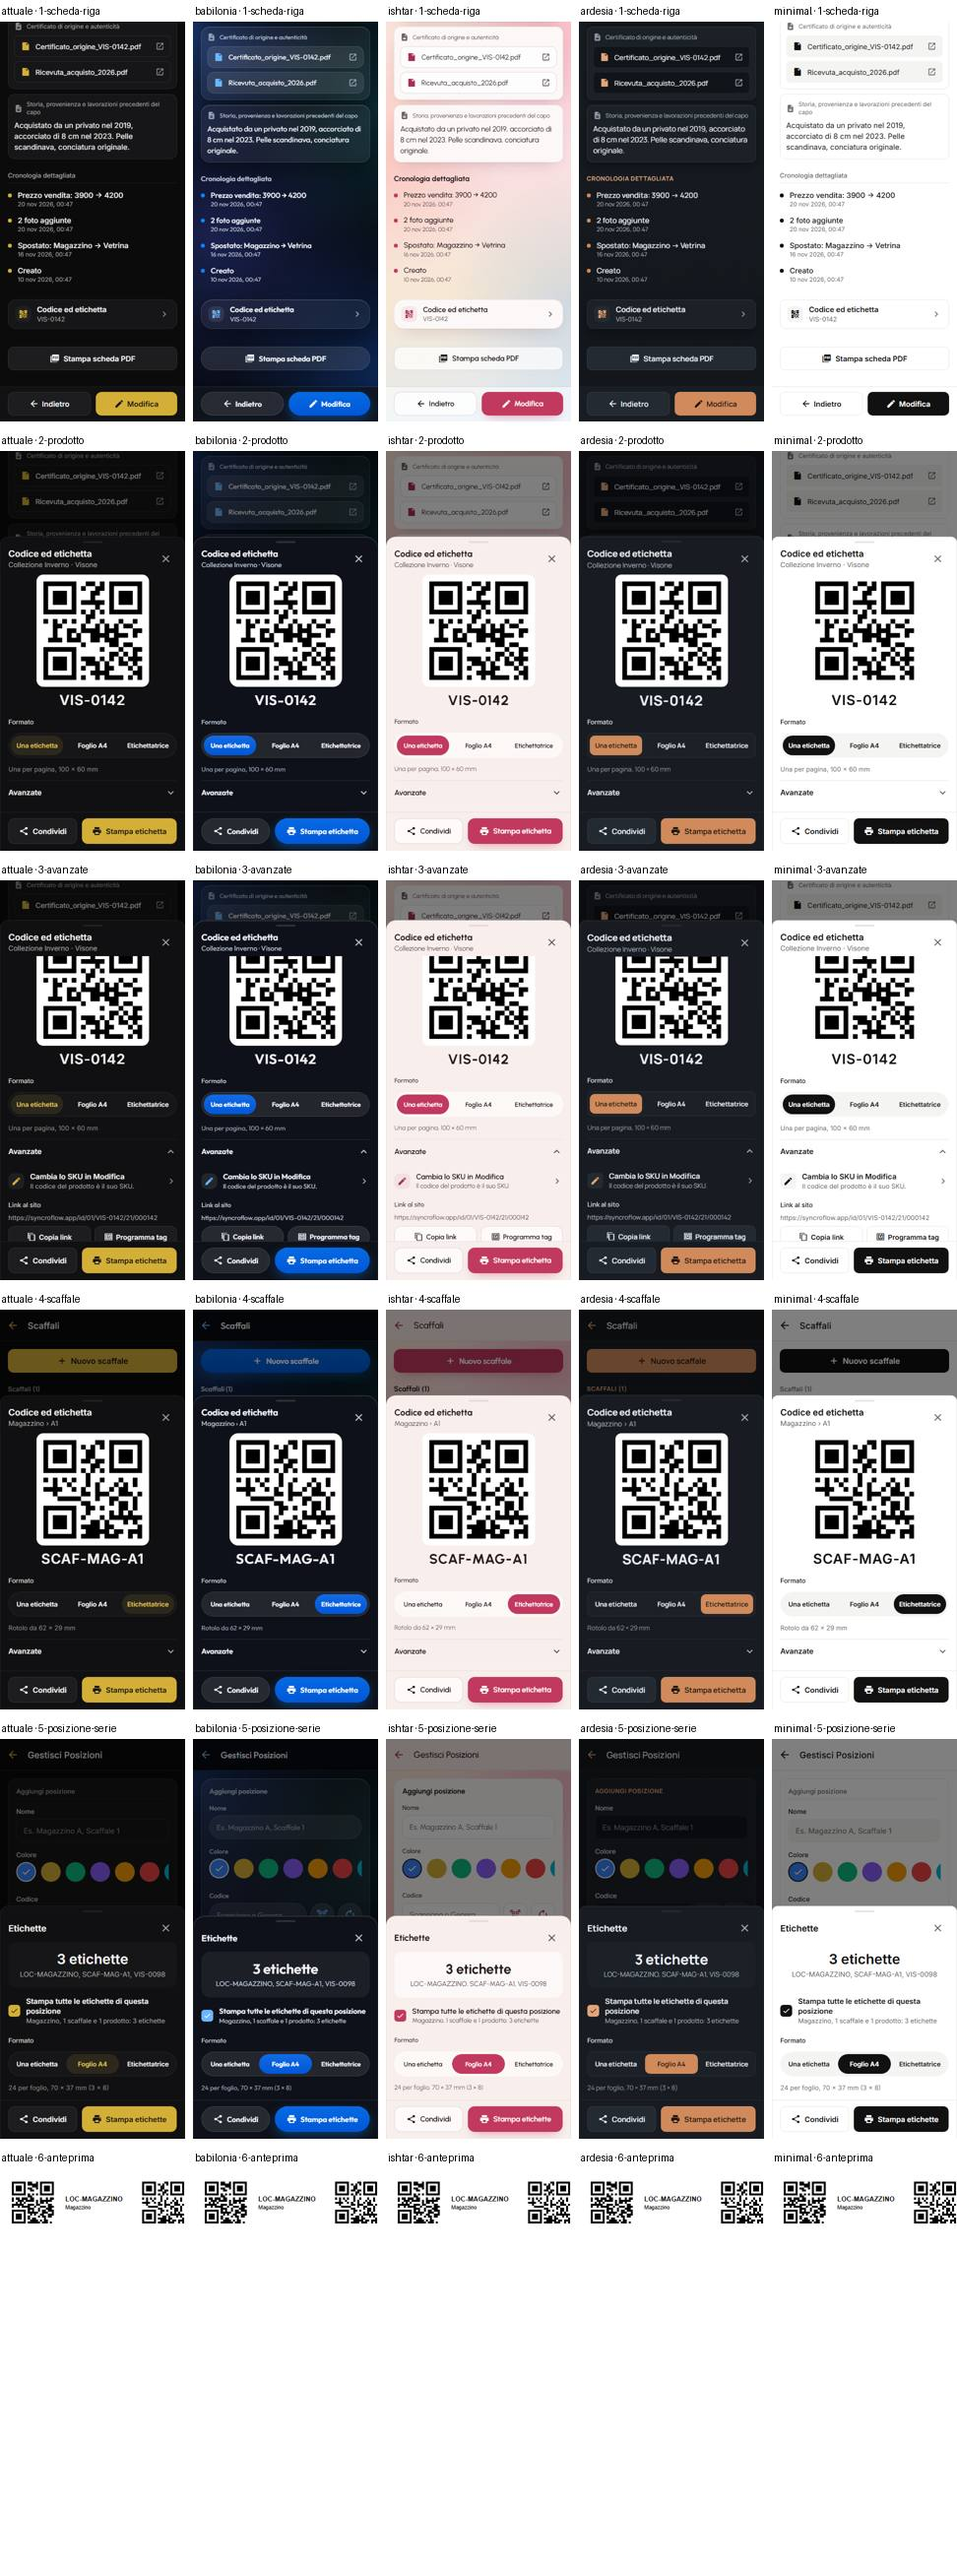
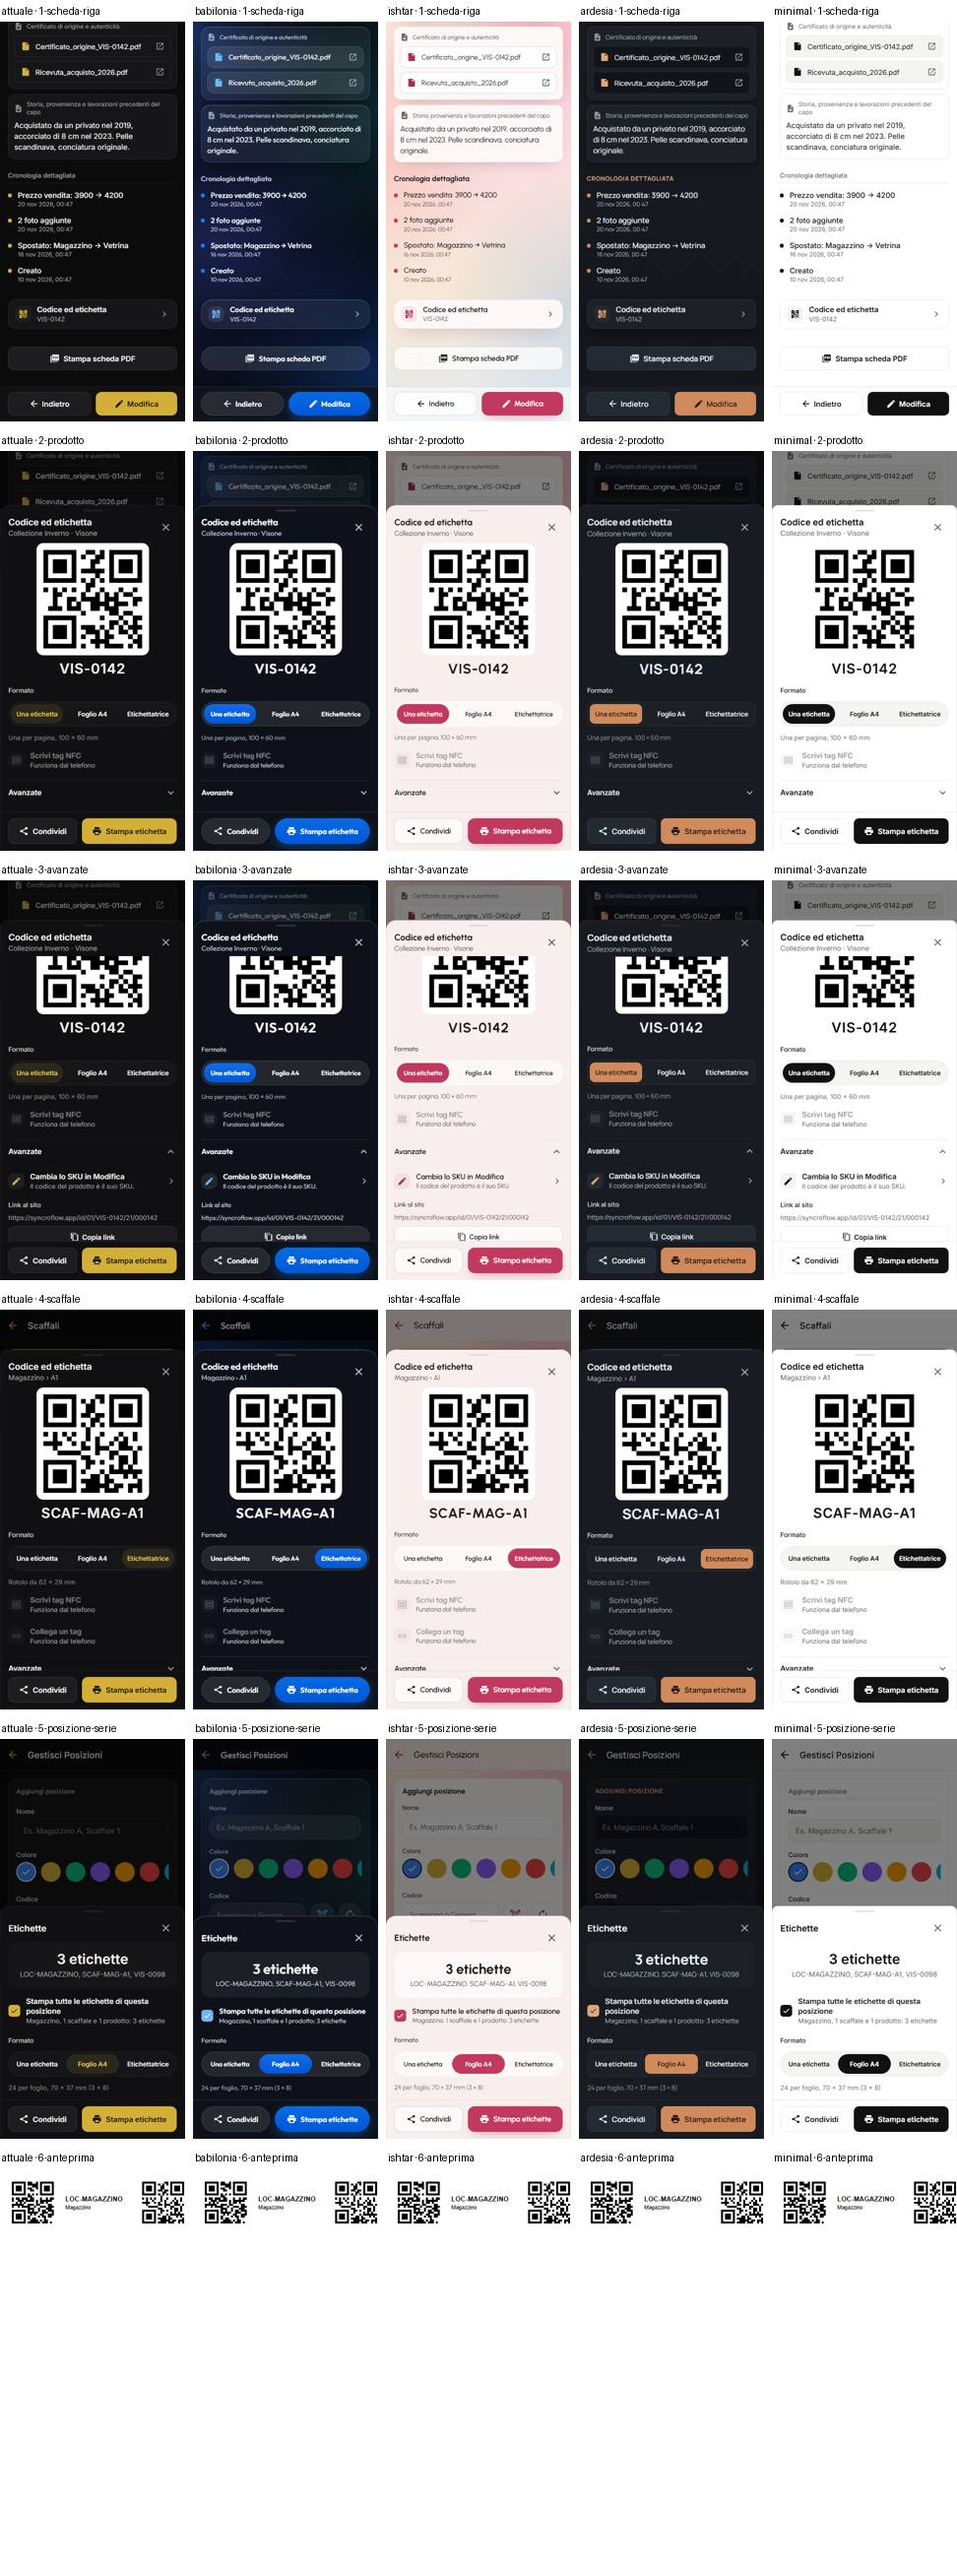
docs(magazzino): Unione 2, righe NFC spente sul web nei testi di N1 e nel foglio di ETI
CF-E6 di collaudo-finale e il punto «Da N1» di PASSAGGIO dicevano ancora la riga
sola «L'NFC si usa dal telefono» in «Codice ed etichetta»; foglio stili-eti
rifatto con le righe spente.

diff --git a/piani di implementazione/funzionalita/PASSAGGIO.md b/piani di implementazione/funzionalita/PASSAGGIO.md
@@ -103,7 +103,7 @@ Da ACC1:
 - **Da UX1-0**, nelle prove: **in Aggiungi Posizione e Categoria sono binari a tutta riga** (`[aria-label="Scelte di Posizione"]`, `"Categorie"`, `"Sottocategorie"`, larghi 375 a 375 px perché arrivano al bordo dello schermo), nessuna tendina; le pillole si toccano subito per testo o etichetta (`apriTendinaCon` le trova a vista e non apre nulla). Posizione torna tendina in colonna solo con «Menu a tendina» scelto in Campi (`edc-aspetto-base`). Le finestre dal basso (ruota in colonna, «Elenco dal basso», categoria dello scaffale) sono `Sheet`: X `[aria-label="Chiudi"]`, velatura `Chiudi la finestra` (categoria: `Chiudi la scelta della categoria`), Esc, e **sul web Indietro del browser chiude la finestra** invece di lasciare la schermata (una voce in più nella storia finché è aperta; chiusa, la storia è quella di prima). «Fatto» e «Conferma Selezione» sono nella barra in basso della finestra. Nel binario lo spazio tra le pillole può essere da 4 a 16 (deciso all'apertura) e le pillole della Categoria sono alte 36 su una riga. Minimal: bordo di campi e pillole `rgb(231, 230, 227)`.
 - **Da CAT1**, nelle prove delle Categorie: in cima c'è solo «Nome categoria (es: Giacche)» con «Crea Categoria»; icona, codice («Scansiona o Genera...») e nome si cambiano nella finestra che si apre toccando la riga (`[tabindex="0"]` con «ID: x»), con «Salva Modifiche»; il nome lì è `getByLabel('Nome della categoria')`, le icone `Icona Magazzino`… La finestra copre l'elenco: per toccare un'altra riga prima «Annulla». Le pillole di «Dove sta» e «Sposta in …» hanno `role=radio` e `aria-checked`. L'albero: `Apri X` / `Chiudi X` (aperta di partenza solo se ha sottocategorie), `Aggiungi una sottocategoria a X`, `Nome della sottocategoria di X`, `Aggiungi la sottocategoria a X`. Il cestino della riga resta `[aria-label="Elimina X"]` (ultimo premibile della riga); con dei prodotti apre «X ha N prodotti. Dove li sposto?» (`Sposta in …`, «Sposta ed elimina», «Annulla») invece della finestra del browser.
 - **Da ETI**, nelle prove: dopo «Crea Posizione», «Crea Categoria» e «Crea scaffale» l'avviso di prima resta e al suo «OK» si apre «Codice ed etichetta», che copre l'elenco: `chiudiCodice` di `prova/eti-util.cjs` (etichetta «Chiudi Codice ed etichetta»; anche il tocco sulla velatura in alto la chiude). Il codice di una categoria non sta più nella sua finestra: riga «Codice ed etichetta» › «Avanzate» › campo «Scansiona o Genera...» (etichetta «Nuovo codice», lettore accanto, «Genera il codice», «Salva codice»: `cambiaCodice`). La riga della Scheda e della finestra della categoria si tocca con `getByLabel('Codice ed etichetta')`, quella di Posizioni con `Codice ed etichetta di X`, di Categorie con `Codice di X`, di Scaffali con `Codice QR di X`. Sul web «Stampa etichetta» e «Stampa scheda PDF» aprono una pagina nuova del contesto (`context.on('page')`): la sua `print` si finge con `context.addInitScript`, quella della pagina dell'app deve restare a 0. Aprendo Posizioni, Categorie o Scaffali lo Scanner web di `expo-camera` scarica `jsQR` da jsdelivr: le richieste esterne della stampa si contano dal tocco su «Stampa».
-- **Da N1**, nelle prove: sul web l'NFC non c'è (`utils/nfcService.web.ts`): nessun «Leggi un tag», «Scrivi tag NFC», «Collega un tag», nessuna scelta in Scanner e NFC; in «Codice ed etichetta» di una cosa sola e in Scanner e NFC c'è la riga «L'NFC si usa dal telefono» (in «Codice ed etichetta» con le etichette in serie no). La configurazione `furinventory_hardware_config:{org}` salvata con `nfc_only` sul web non toglie la fotocamera (`readerSources`). Il modulo Scaffali non ha più il campo «Tag NFC»: un `nfcTag` di prova si scrive nello stato (`prepara` di `cod-util.cjs` lo mette ad A1) e il lettore lo legge a mano come prima. «Programma tag» non c'è più. La logica NFC si prova con jest (`nfcTag.test.ts`, `nfcCore.test.ts`); sul telefono restano i passi CF-T2 e CF-T3.
+- **Da N1**, nelle prove: sul web l'NFC non c'è (`utils/nfcService.web.ts`): nessun «Leggi un tag», nessun pulsante «Scrivi tag NFC» o «Collega un tag», nessuna scelta in Scanner e NFC; in Scanner e NFC c'è la riga «L'NFC si usa dal telefono»; in «Codice ed etichetta» di una cosa sola, dall'Unione 2, le due righe spente con «Funziona dal telefono» (vedi «Unione 2» qui sotto; con le etichette in serie niente). La configurazione `furinventory_hardware_config:{org}` salvata con `nfc_only` sul web non toglie la fotocamera (`readerSources`). Il modulo Scaffali non ha più il campo «Tag NFC»: un `nfcTag` di prova si scrive nello stato (`prepara` di `cod-util.cjs` lo mette ad A1) e il lettore lo legge a mano come prima. «Programma tag» non c'è più. La logica NFC si prova con jest (`nfcTag.test.ts`, `nfcCore.test.ts`); sul telefono restano i passi CF-T2 e CF-T3.
 - **Da ACC1**, nelle prove:
   - il profilo del telefono sta in `device:v1:profile` e la tabella in `device:v1:permissions`, fuori dallo spazio (niente `:local`). Nascono alla prima modifica in Accesso o al primo evento, mai all'apertura;
   - con il campionario il telefono è Titolare e nulla è spento. Per provare un altro ruolo: Accesso › radio «Ruolo Operatore» (`getByRole('radio', { name: 'Ruolo Operatore' })`);

diff --git a/piani di implementazione/funzionalita/collaudo-finale.md b/piani di implementazione/funzionalita/collaudo-finale.md
@@ -63,7 +63,7 @@ Dall'Unione 2 (25/11): CF-D è tutto verde. CF-D1 non ha più «da fare» (la fi
 | CF-E3 | Le 5 automazioni con lo stesso codice di prodotto | Riconosciuto in tutte; un prodotto nel cestino rifiutato col messaggio | COD, ESE |
 | CF-E4 | «Codice ed etichetta» di un prodotto con link e di A1: Stampa | Etichetta con QR e codice fatti in locale (nessun indirizzo esterno nell'HTML); sul web si apre la finestra dell'etichetta | ETI (fatta, 24/11: `cfE4` in `prova/collaudo.cjs`, verde) |
 | CF-E5 | Impostazioni › Codici ed etichette con lo storage vuoto, poi con una configurazione GS1 vecchia | Modo «Il codice del prodotto», Avanzate chiuse; con la configurazione vecchia modo «Link» con lo stesso dominio | GS1 |
-| CF-E6 | Impostazioni › Scanner e NFC sul web | Nessuna scelta NFC, una riga «L'NFC si usa dal telefono» (anche in «Codice ed etichetta»), nessun «Errore»; la configurazione salvata resta | N1 (fatta, 24/11: `cfE6` in `prova/collaudo.cjs`, verde) |
+| CF-E6 | Impostazioni › Scanner e NFC sul web | Nessuna scelta NFC, una riga «L'NFC si usa dal telefono»; in «Codice ed etichetta» (dall'Unione 2, richiesta dell'utente del 25/11) le righe «Scrivi tag NFC» e «Collega un tag» spente con «Funziona dal telefono»; nessun «Errore»; la configurazione salvata resta | N1 (fatta, 24/11: `cfE6` in `prova/collaudo.cjs`, verde) |
 
 ## F · Magazzino e automazioni
 
